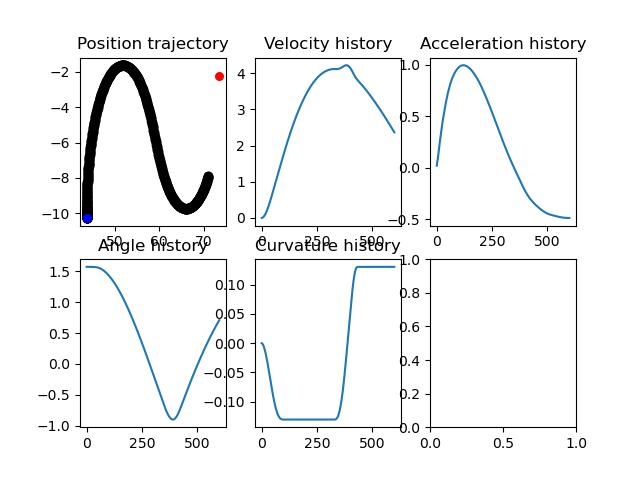
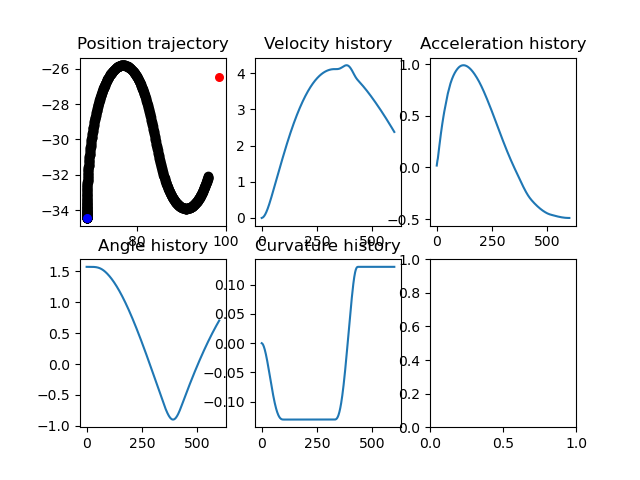
Fix bug related to solve frequency

diff --git a/main.py b/main.py
@@ -89,7 +89,7 @@ def main():
             plot_trajectory(initial_state, goal_state, state_trajectory, filepath = str(OUTPUT_DIR/ 'optimized_scp_trajectory.png'))
         prev_state_trajectory = np.concatenate([state_trajectory[1:], state_trajectory[-1][np.newaxis, :]], axis=0) 
         prev_input_trajectory = np.concatenate([input_trajectory[1:], input_trajectory[-1][np.newaxis, :]], axis=0) 
-        next_state = env.take_action(input_trajectory[0])
+        next_state = env.take_action(input_trajectory[i % solve_frequency])
         actual_trajectory[i] = next_state
         current_state = next_state.copy()
 
